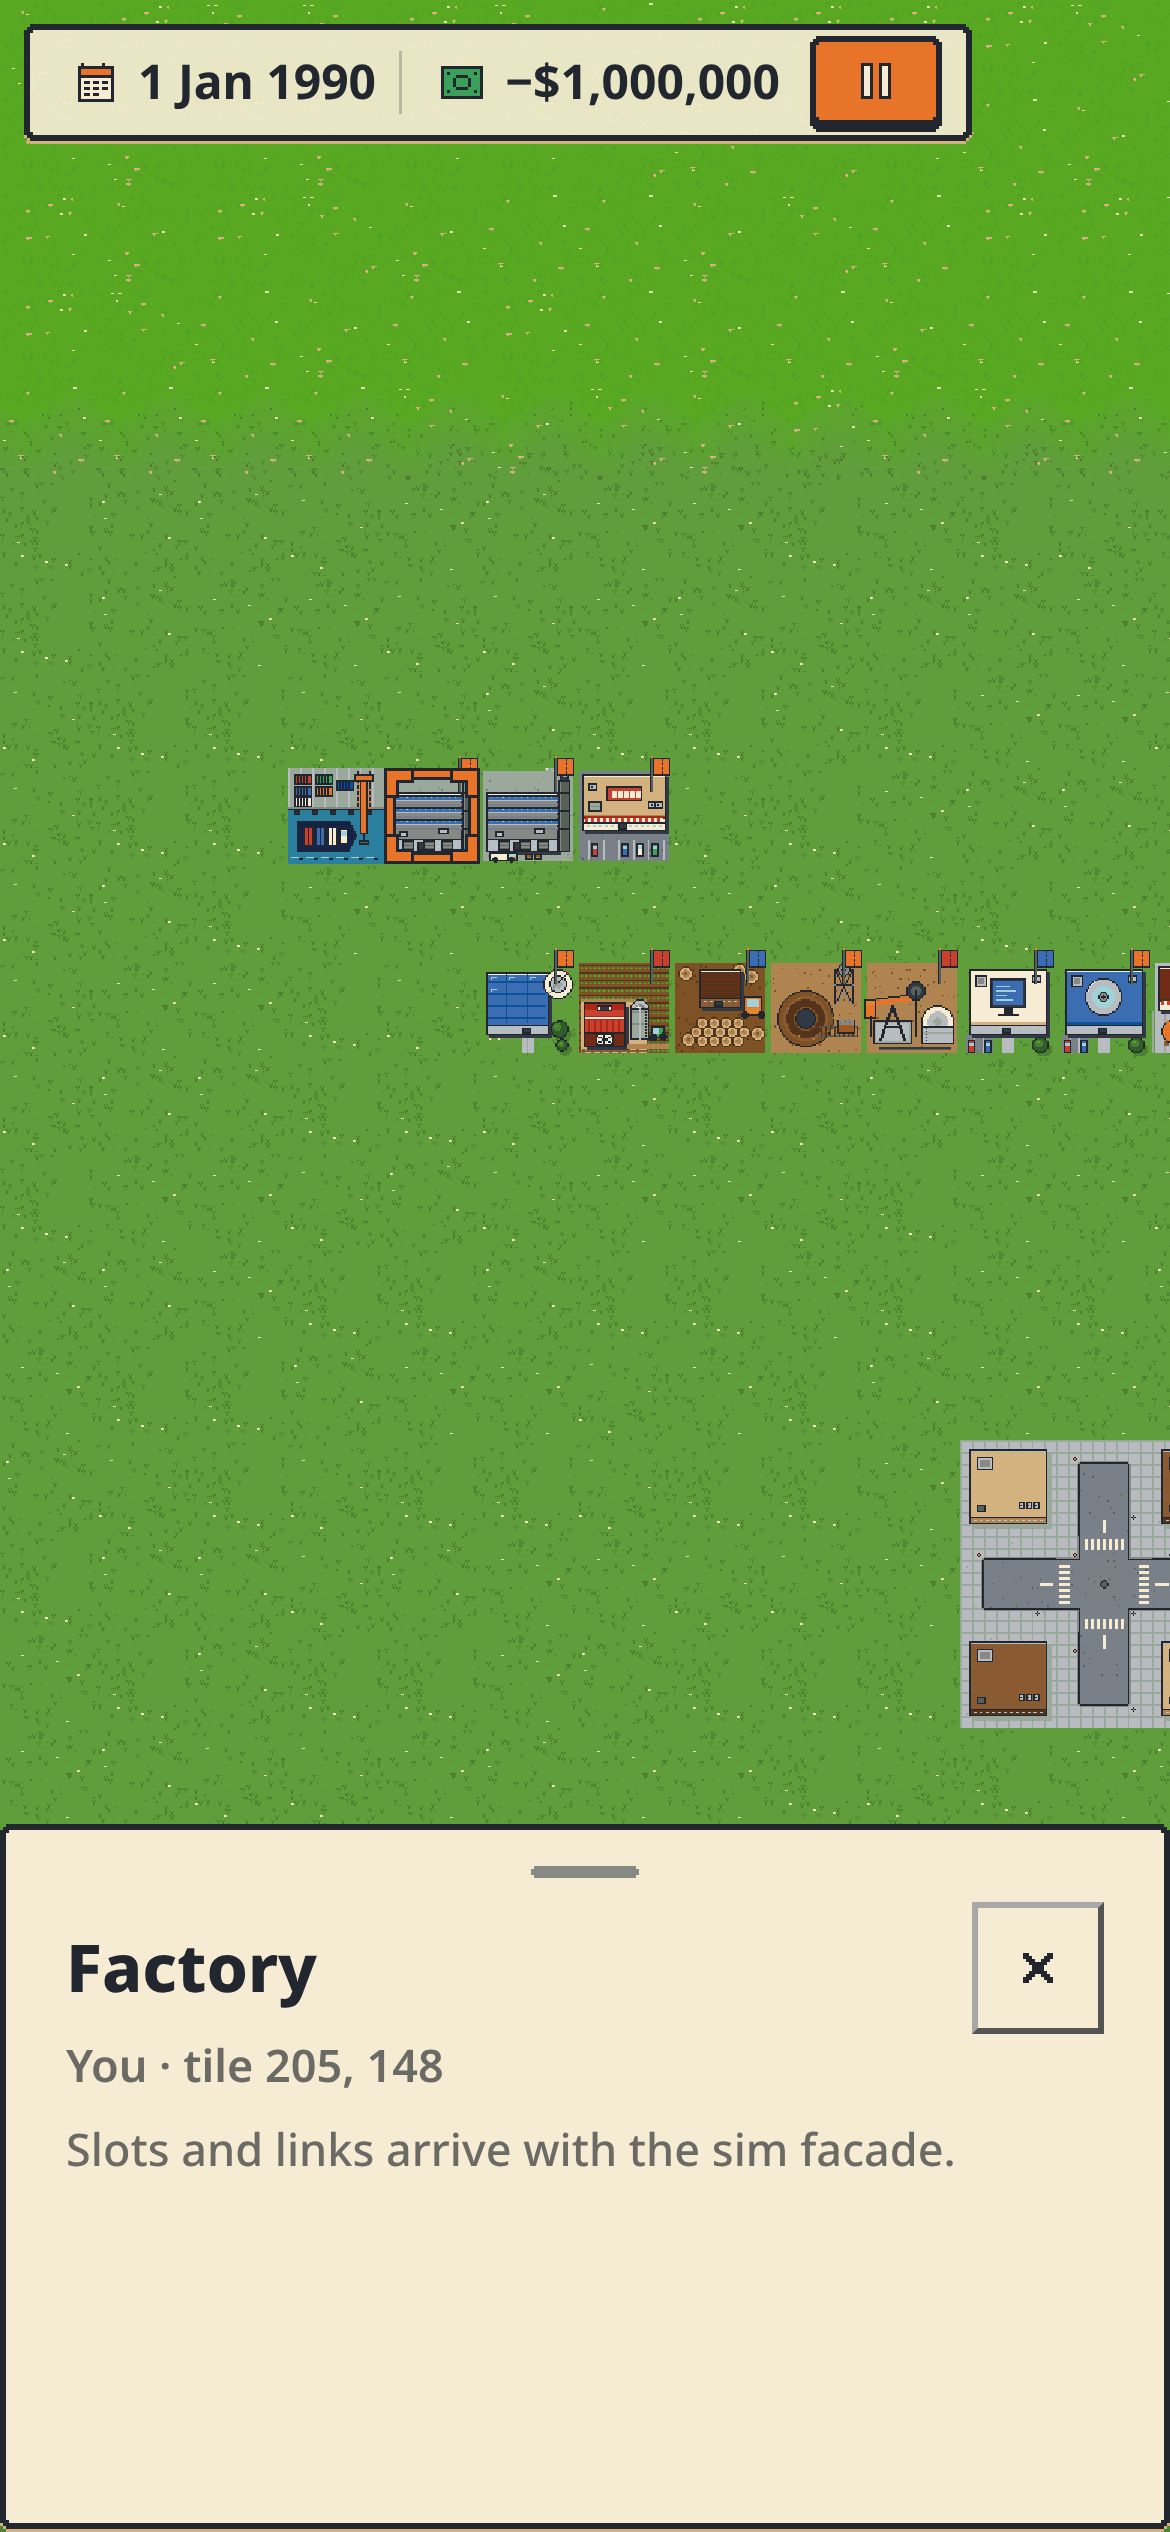
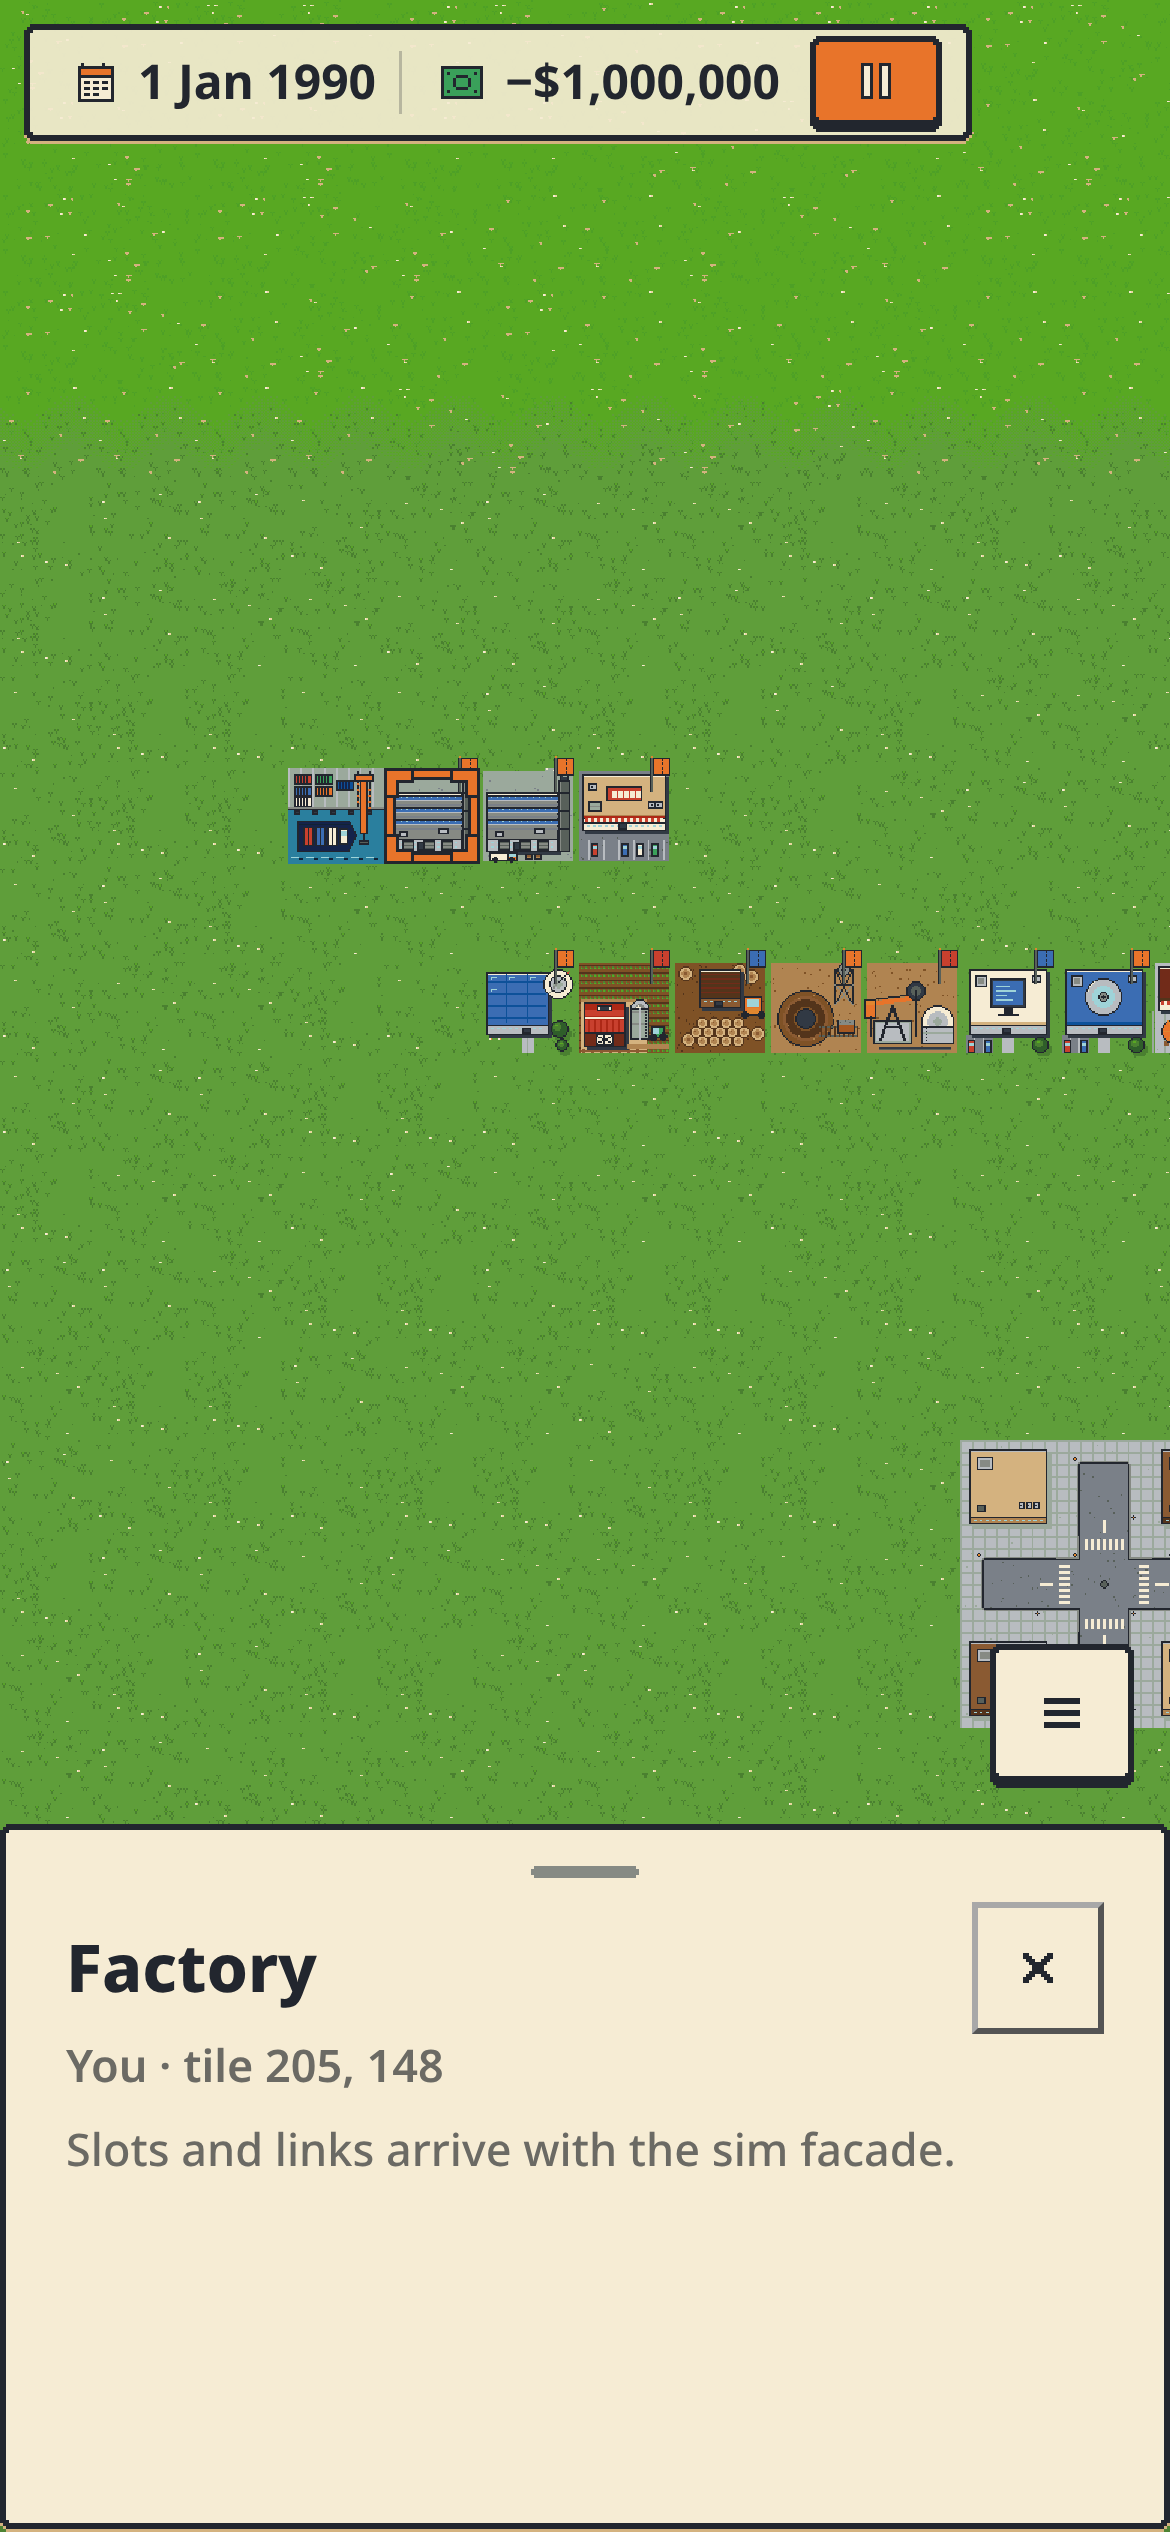
client: 44x44 speed tap area; phone menu button above the sheet at peek/half

Changed region(s): [[0.8308, 0.624, 0.9846, 0.7176]]

diff --git a/client/src/ui/shell.css b/client/src/ui/shell.css
@@ -10,12 +10,16 @@
   box-sizing: border-box; display: flex; align-items: center; gap: 6px; padding: 0 4px 0 10px; font-weight: 700; font-size: 16px; }
 .pill-date { margin-right: 6px; padding-right: 8px; border-right: 1px solid rgba(34, 38, 46, 0.25); }
 .pill-cash { font-variant-numeric: tabular-nums; margin-right: 4px; }
-.pill-speed { width: 44px; height: 32px; display: grid; place-items: center; }
+.pill-speed { position: relative; width: 44px; height: 32px; display: grid; place-items: center; }
+/* Tap area reaches 44x44 pt past the 32 pt-tall art (spec: tap targets at least 44 pt). */
+.pill-speed::before { content: ""; position: absolute; left: 0; right: 0; top: -6px; bottom: -6px; }
 
 .menu-btn { position: absolute; right: max(12px, env(safe-area-inset-right)); bottom: max(12px, env(safe-area-inset-bottom));
   width: 48px; height: 48px; display: grid; place-items: center; }
 .shell.desktop.panel-open .menu-btn { right: 412px; }
-.shell:not(.desktop).panel-open .menu-btn { display: none; }
+/* Phone: the menu button rides just above the sheet at peek and half, hidden at full. */
+.shell:not(.desktop).panel-open .menu-btn { bottom: calc(var(--sheet-h, 0px) + 12px); }
+.shell:not(.desktop).sheet-full .menu-btn { display: none; }
 .badge { position: absolute; right: -7px; top: -7px; min-width: 18px; height: 18px; box-sizing: border-box; padding: 0 4px;
   display: grid; place-items: center; color: #fff; font-size: 11px; font-weight: 800; background-size: 100% 100%; }
 

diff --git a/client/src/ui/shell.ts b/client/src/ui/shell.ts
@@ -140,8 +140,11 @@ export class Shell {
     const desktop = isDesktop(window.innerWidth);
     this.root.classList.toggle("desktop", desktop);
     this.root.classList.toggle("panel-open", !!this.spec);
+    this.root.classList.toggle("sheet-full", !!this.spec && this.height === "full");
     if (this.spec) {
-      this.panel.style.height = desktop ? "" : `${sheetPt(this.height, window.innerHeight)}px`;
+      const h = sheetPt(this.height, window.innerHeight);
+      this.panel.style.height = desktop ? "" : `${h}px`;
+      this.root.style.setProperty("--sheet-h", `${h}px`);
       this.panel.dataset.height = this.height;
     }
     this.onLayout(this.openHeight);
